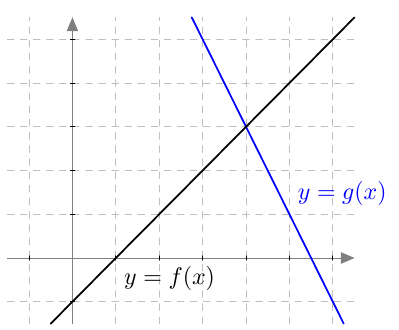
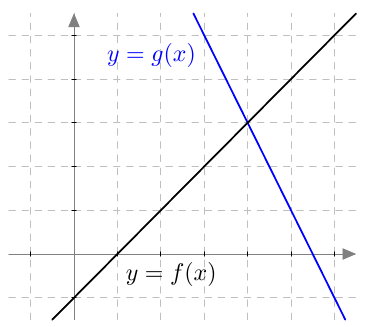
Muoks

diff --git a/kurssit/mab2/luku2/index.html b/kurssit/mab2/luku2/index.html
@@ -63,6 +63,21 @@ topnav: mab2
                     Edellisessä luvussa tarkasteltiin ensimmäisen asteen polynomifunktioita. Kun tutkittiin, missä kohdassa ensimmäisen asteen polynomifunktio saa tietyn arvon, päädyttiin ensimmäisen asteen yhtälöön. Kun tutkitaan, missä kohdassa kaksi ensimmäisen asteen polynomifunktiota saavat saman arvon, päädytään ensimmäisen asteen yhtälöpariin.
                 </p>
                 <img src="/kurssit/mab2/kuvat/MAB2kuva009.png" max-width: 100%; width: auto; height: auto;/>
+                <p>
+                    Yllä on näkyvissä ensimmäisen asteen polynomifunktioiden $f(x) = x-1$ ja $g(x) = -2x + 11$ kuvaajat. Piirroksesta nähdään, että funktiot saavat saman arvon kohdassa $x = 4$ ja tämä arvo on $y = 3$:
+                </p>
+                <img src="/kurssit/mab2/kuvat/MAB2kuva010.png" max-width: 100%; width: auto; height: auto;/>
+                <p>
+                    Kuvassa näkyvien suorien yhtälöt muodostavat yhtälöparin
+                    $$
+                    \left\{
+                    \begin{align*}
+                    y & = x-1 \\
+                    y & = -2x + 11
+                    \end{align*}
+                    $$
+                    Sen ratkaisu on lukupari $x = 4$ ja $y = 3$, sillä suorien leikkauspiste $(4,3)$ toteuttaa kummankin suoran yhtälön.
+                </p>
             </div>
 
             <div class="close-section">
